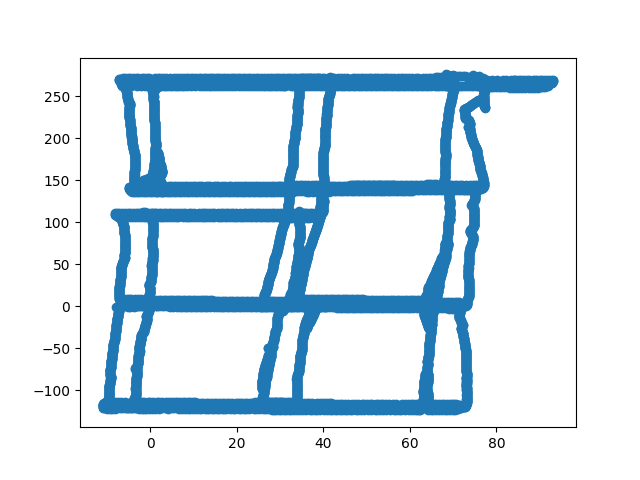
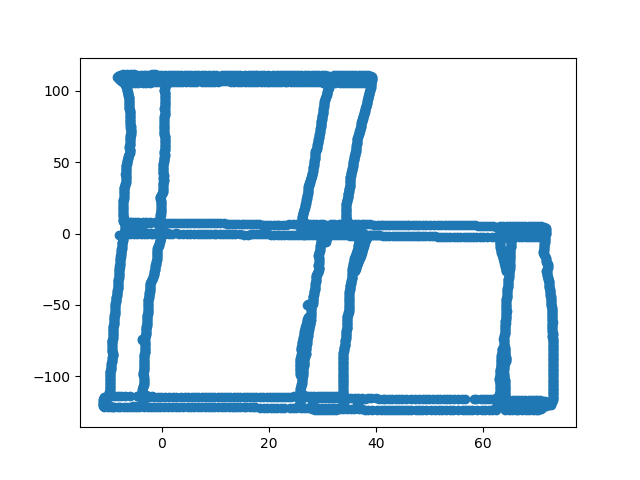
panos filtering and storage

diff --git a/data/scripts/dataset.py b/data/scripts/dataset.py
@@ -1,13 +1,16 @@
 """ pre-process and write the labels, spatial graph, and lower resolution images to disk """
 from __future__ import print_function, division
 import glob
+import sys
 import os
+import pickle
 import collections
 import xml.etree.ElementTree as et
 from tqdm import tqdm
 import networkx as nx
 import pandas as pd
 import numpy as np
+import h5py
 import cv2
 from utils import find_nearby_nodes
 
@@ -24,7 +27,7 @@ def process_labels(path):
             name = node.find("name").text
             obj_type, val = name.split("-")
             bndbox = (node.find("bndbox").find("xmin").text, node.find("bndbox").find("xmax").text, node.find("bndbox").find("ymin").text, node.find("bndbox").find("ymax").text)
-            labels.append((int(frame * 30), obj_type, val, bndbox))
+            labels.append((int(frame) * 30, obj_type, val, bndbox))
     label_df = pd.DataFrame(labels, columns = ["timestamp", "obj_type", "val", "coords"])
     return label_df
 
@@ -32,10 +35,10 @@ def construct_spatial_graph(coords_df, label_df, path):
     """ Filter the pano coordinates by spatial relation and write the filtered graph to disk"""
     # Init graph
     G = nx.Graph()
-    G.add_nodes_from(data_df.index.values.astype(int).tolist())
+    G.add_nodes_from(range(len(coords_df)))
     nodes = G.nodes
     max_node_distance = 1.5
-    for node_1 in tqdm(nodes, desc="Adding edges to graph"):
+    for node_1_idx in tqdm(nodes, desc="Adding edges to graph"):
         print(node_1_idx)
         meta = coords_df[coords_df.index == node_1_idx]
         coords = np.array([meta['x'].values[0], meta['y'].values[0], meta['z'].values[0]])
@@ -92,23 +95,23 @@ def create_dataset(data_path="/Users/martinweiss/code/academic/hyrule-data/data/
     width = 224
     crop_margin = int(height * (1/6))
 
-    thumbnails = {}
+    thumbnails = np.zeros((len(paths), 84, 224, 3))
     if limit:
         coords = np.load(data_path + "processed/pos_ang.npy")[:limit]
     else:
         coords = np.load(data_path + "processed/pos_ang.npy")
 
-        # Get panos and crop'em into thumbnails
-    for path in tqdm(paths, desc="Loading thumbnails"):
+    # Get panos and crop'em into thumbnails
+    for idx, path in enumerate(tqdm(paths, desc="Loading thumbnails")):
         frame = int(path.split("_")[-1].split(".")[0])
         image = cv2.imread(path)
         shape = image.shape[0:2]
         image = cv2.resize(image, (width, height))[:, :, ::-1]
         image = image[crop_margin:height - crop_margin]
-        thumbnails[frame] = image
+        thumbnails[idx] = image
 
         # change label coords to mini space
-        labels = label_df[label_df["timestamp"] == int(frame * 30)]
+        labels = label_df[label_df["timestamp"] == int(frame)]
         if labels.any().any():
             for idx, row in labels.iterrows():
                 row_coords = [int(x) for x in row["coords"]]
@@ -120,7 +123,6 @@ def create_dataset(data_path="/Users/martinweiss/code/academic/hyrule-data/data/
 
     label_df.to_hdf(data_path + "processed/labels.hdf5", key="df", index=False)
 
-    od = collections.OrderedDict(sorted(thumbnails.items()))
     coords = coords[coords[:, 0].argsort()]
 
     x = coords[:, 1]
@@ -129,8 +131,9 @@ def create_dataset(data_path="/Users/martinweiss/code/academic/hyrule-data/data/
     angle = coords[:, 4]
 
     coords_df = pd.DataFrame({"x": x, "y": y, "z": z, "angle": angle, "timestamp": coords[:, 0]})
-    image_df = pd.DataFrame({"timestamp": coords[:, 0], "thumbnail": list(od.values())})
-    data_df.to_hdf(data_path + "processed/data.hdf5", key="df", index=False)
-    construct_spatial_graph(data_df, label_df, data_path)
+    f = h5py.File(data_path + "processed/images.hdf5", 'w')
+    f.create_dataset("df", data=thumbnails)
+    f.close()
+    construct_spatial_graph(coords_df, label_df, data_path)
 
-create_dataset(data_path="/Users/martinweiss/code/academic/hyrule-gym/data/data/run_1/")
+create_dataset(data_path="/home/martin/hyrule-gym/data/2019-06-10/")

diff --git a/data/scripts/stitch_reconstructions.py b/data/scripts/stitch_reconstructions.py
@@ -98,14 +98,14 @@ test = stitch(test, reconstructions['07'], 1.0, 1.0, -95.0, 0.0, -1.0)
 test = stitch(test, reconstructions['08'], 1.15, 1.0, -7.0, 0.0, -1.0)
 test = stitch(test, reconstructions['09'], 1.06, 1.06, -85.5, 0.0, 4.0)
 #test = stitch(test, reconstructions['10'], 1.15, 1.15, 180, 0.0, 0.0)
-test = stitch(test, reconstructions['11'], 1.0, 1.0, 90, -10.0, 220.0)
-test = stitch(test, reconstructions['12'], 1.05, 1.1, 5.0, 5.0, 0.0)
-test = stitch(test, reconstructions['13'], 1.0, 1.0, 91.0, 5.0, -12.5)
-test = stitch(test, reconstructions['14'], 1.0, 1.0, 87.0, 0.0, 3.0)
-test = stitch(test, reconstructions['15'], 1.1, 1.0, -1.0, 0.0, 0.0)
-test = stitch(test, reconstructions['16'], 1.0, 1.0, 176.0, 0.0, -1.0)
-test = stitch(test, reconstructions['17'], 1.0, 1.0, 181.5, -3.0, -2.0)
-test = stitch(test, reconstructions['18'], 1.2, 0.95, 82.0, 0.0, 0.0)
+#test = stitch(test, reconstructions['11'], 1.0, 1.0, 90, -10.0, 220.0)
+#test = stitch(test, reconstructions['12'], 1.05, 1.1, 5.0, 5.0, 0.0)
+#test = stitch(test, reconstructions['13'], 1.0, 1.0, 91.0, 5.0, -12.5)
+#test = stitch(test, reconstructions['14'], 1.0, 1.0, 87.0, 0.0, 3.0)
+#test = stitch(test, reconstructions['15'], 1.1, 1.0, -1.0, 0.0, 0.0)
+#test = stitch(test, reconstructions['16'], 1.0, 1.0, 176.0, 0.0, -1.0)
+#test = stitch(test, reconstructions['17'], 1.0, 1.0, 181.5, -3.0, -2.0)
+#test = stitch(test, reconstructions['18'], 1.2, 0.95, 82.0, 0.0, 0.0)
 
 
 if args.plot:

diff --git a/data/scripts/filter_panos.py b/data/scripts/filter_panos.py
@@ -40,7 +40,6 @@ def save_poses(filename, poses):
 
 # Filter the poses
 poses = pd.read_csv(args.coords_file, delimiter=",")
-import pdb; pdb.set_trace()
 poses.columns = header=['index', 'timestamp', 'x', 'y', 'z', 'angle']
 ROT_MAT = np.array([[0, 0, 1], [-1, 0, 0], [0, -1, 0]])
 filtered_poses = filter_poses(poses)
